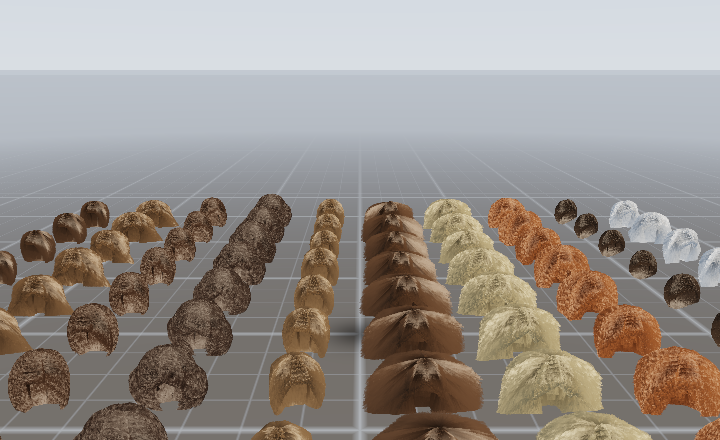
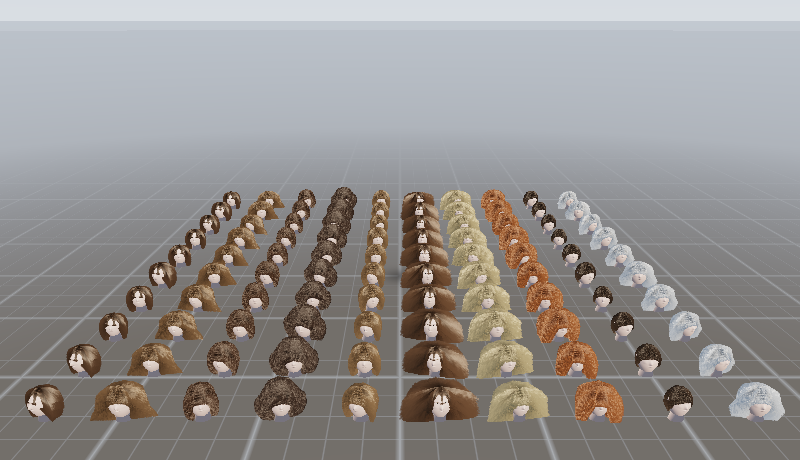
renderer: draw one head / teapot per instance; fix Eq. 7 framing
- the crowd and the Figure 9 teapot scenes now draw the shared head/body/teapot meshes once
  per hair instance with that instance's transform, in both the software and Vulkan paths,
  so every character in a crowd has a face under its own hairstyle
- teapot hair now hugs the lid (0.058 m cap) instead of a dome that swallowed the pot
- crowd and teapot cameras frame the full grids
- README/docs: refreshed measurements from this checkout

diff --git a/src/render/software_renderer.cpp b/src/render/software_renderer.cpp
@@ -215,14 +215,16 @@ void SoftwareRenderer::render(const Scene& scene, const Camera& camera,
 
     // ---------------- opaque geometry ----------------
     auto drawMesh = [&](const Mesh& mesh, Vec3 baseAlbedo, float specPower, float specGain,
-                        bool isSkin, bool isEye = false) {
+                        bool isSkin, bool isEye = false, const Mat4* xform = nullptr) {
         for (size_t t = 0; t + 2 < mesh.indices.size(); t += 3) {
             Vec3 p[3], n[3];
             Projected pr[3];
             for (int k = 0; k < 3; ++k) {
                 const uint32_t idx = mesh.indices[t + k];
-                p[k] = mesh.positions[idx];
-                n[k] = mesh.normals.empty() ? Vec3(0, 1, 0) : mesh.normals[idx];
+                const Vec3 lp = mesh.positions[idx];
+                const Vec3 ln = mesh.normals.empty() ? Vec3(0, 1, 0) : mesh.normals[idx];
+                p[k] = xform ? xform->transformPoint(lp) : lp;
+                n[k] = xform ? normalize(xform->transformDirection(ln)) : ln;
                 project(p[k], &pr[k]);
             }
             if (!pr[0].visible && !pr[1].visible && !pr[2].visible) continue;
@@ -287,11 +289,34 @@ void SoftwareRenderer::render(const Scene& scene, const Camera& camera,
     };
 
     if (options.drawHead) {
-        drawMesh(scene.head, Vec3(0.66f, 0.47f, 0.39f), 26.0f, 0.08f, true);
-        drawMesh(scene.body, Vec3(0.56f, 0.41f, 0.34f), 26.0f, 0.08f, true);
-        drawMesh(scene.eyes, Vec3(0.16f, 0.11f, 0.07f), 120.0f, 0.9f, false, /*isEye=*/true);
+        // A crowd draws one head/body per hair instance, using that instance's transform
+        // (every model is unique, exactly as in Figure 1). A single character uses the
+        // mesh as-is.
+        if (scene.hair.size() > 1 && !scene.head.positions.empty()) {
+            for (const auto& inst : scene.hair) {
+                drawMesh(scene.head, Vec3(0.66f, 0.47f, 0.39f), 26.0f, 0.08f, true, false,
+                         &inst->transform);
+                drawMesh(scene.body, Vec3(0.56f, 0.41f, 0.34f), 26.0f, 0.08f, true, false,
+                         &inst->transform);
+                drawMesh(scene.eyes, Vec3(0.16f, 0.11f, 0.07f), 120.0f, 0.9f, false, true,
+                         &inst->transform);
+            }
+        } else {
+            drawMesh(scene.head, Vec3(0.66f, 0.47f, 0.39f), 26.0f, 0.08f, true);
+            drawMesh(scene.body, Vec3(0.56f, 0.41f, 0.34f), 26.0f, 0.08f, true);
+            drawMesh(scene.eyes, Vec3(0.16f, 0.11f, 0.07f), 120.0f, 0.9f, false, /*isEye=*/true);
+        }
     }
-    if (scene.useTeapots) drawMesh(scene.teapot, Vec3(0.86f, 0.84f, 0.80f), 90.0f, 0.45f, false);
+    if (scene.useTeapots) {
+        // Figure 9: one teapot per hair instance, each under its own hair layer.
+        if (scene.hair.size() > 1 && !scene.teapot.positions.empty()) {
+            for (const auto& inst : scene.hair)
+                drawMesh(scene.teapot, Vec3(0.86f, 0.84f, 0.80f), 90.0f, 0.45f, false, false,
+                         &inst->transform);
+        } else {
+            drawMesh(scene.teapot, Vec3(0.86f, 0.84f, 0.80f), 90.0f, 0.45f, false);
+        }
+    }
 
     // Freeze the opaque depth buffer. Hair is then blended back-to-front *without*
     // writing depth, so that the many transparent layers of a hairstyle accumulate

diff --git a/src/gpu/hair_gpu_renderer.cpp b/src/gpu/hair_gpu_renderer.cpp
@@ -1322,8 +1322,48 @@ bool HairGpuRenderer::renderFrame(const Camera& camera, const RenderOptions& opt
             vkCmdBindIndexBuffer(commandBuffer_, indexBuffer, 0, VK_INDEX_TYPE_UINT32);
             vkCmdDrawIndexed(commandBuffer_, mesh.indexCount, 1, 0, 0, 0);
         };
-        drawMesh(headMesh_, headMeshIndex_.buffer, Vec3(0.66f, 0.47f, 0.39f), 0.0f);
-        drawMesh(bodyMesh_, bodyMeshIndex_.buffer, Vec3(0.56f, 0.41f, 0.34f), 0.0f);
+        // A crowd draws the shared head/body mesh once per hair instance, with that
+        // instance's transform; a single character draws it with the identity transform.
+        auto drawMeshXf = [&](const StaticMeshGpu& mesh, VkBuffer indexBuffer, Vec3 albedo,
+                              float spec, const Mat4& xform) {
+            if (mesh.indexCount == 0) return;
+            HeadPush push{};
+            copyMat(viewProj * xform, push.mvp);
+            copyMat(xform, push.model);
+            push.albedo[0] = albedo.x;
+            push.albedo[1] = albedo.y;
+            push.albedo[2] = albedo.z;
+            push.albedo[3] = spec;
+            vkCmdPushConstants(commandBuffer_, headPipelineLayout_,
+                               VK_SHADER_STAGE_VERTEX_BIT | VK_SHADER_STAGE_FRAGMENT_BIT, 0,
+                               sizeof(HeadPush), &push);
+            vkCmdBindVertexBuffers(commandBuffer_, 0, 1, &mesh.buffer, zeroOffsets);
+            vkCmdBindIndexBuffer(commandBuffer_, indexBuffer, 0, VK_INDEX_TYPE_UINT32);
+            vkCmdDrawIndexed(commandBuffer_, mesh.indexCount, 1, 0, 0, 0);
+        };
+        if (models_.size() > 1) {
+            for (const auto& model : models_) {
+                if (!model.instance) continue;
+                drawMeshXf(headMesh_, headMeshIndex_.buffer, Vec3(0.66f, 0.47f, 0.39f), 0.0f,
+                           model.instance->transform);
+                drawMeshXf(bodyMesh_, bodyMeshIndex_.buffer, Vec3(0.56f, 0.41f, 0.34f), 0.0f,
+                           model.instance->transform);
+            }
+        } else {
+            drawMesh(headMesh_, headMeshIndex_.buffer, Vec3(0.66f, 0.47f, 0.39f), 0.0f);
+            drawMesh(bodyMesh_, bodyMeshIndex_.buffer, Vec3(0.56f, 0.41f, 0.34f), 0.0f);
+        }
+        // Figure 9: the teapot under each hair layer.
+        if (teapotMesh_.indexCount > 0) {
+            if (models_.size() > 1) {
+                for (const auto& model : models_)
+                    if (model.instance)
+                        drawMeshXf(teapotMesh_, teapotMeshIndex_.buffer,
+                                   Vec3(0.86f, 0.84f, 0.80f), 0.0f, model.instance->transform);
+            } else {
+                drawMesh(teapotMesh_, teapotMeshIndex_.buffer, Vec3(0.86f, 0.84f, 0.80f), 0.0f);
+            }
+        }
     }
 
     if (options.drawHair) recordHairDraw(commandBuffer_, camera, options, false);

diff --git a/src/app/scenes.cpp b/src/app/scenes.cpp
@@ -45,15 +45,11 @@ HairStyleSpec crowdStyleSpec(int i, uint32_t seed) {
 Scene buildCrowdScene(int count) {
     Scene scene;
     HeadModel head;
+    // One shared head/body mesh, drawn once per crowd instance (see the renderers), so that
+    // every character in Figure 1's crowd has a face under its own hairstyle.
     scene.head = head.headMesh();
     scene.body = head.bodyMesh();
-    scene.head.positions.clear();
-    scene.head.indices.clear();
-    scene.body.positions.clear();
-    scene.body.normals.clear();
-    scene.body.indices.clear();
-    scene.head.normals.clear();
-    scene.head.uvs.clear();
+    scene.eyes = head.eyesMesh();
 
     const int cols = static_cast<int>(std::ceil(std::sqrt(static_cast<double>(count))));
     const float spacing = 0.56f;
@@ -83,7 +79,9 @@ Scene buildTeapotScene(int count) {
         const int cx = i % cols, cy = i / cols;
         const float x = (cx - (cols - 1) * 0.5f) * spacing;
         const float z = (cy - (cols - 1) * 0.5f) * spacing;
-        HairMesh mesh = buildTeapotHairMesh(6, 5, 3, 0.06f + 0.02f * (i % 3), 900u + i);
+        // Figure 9: each teapot grows a short hair layer on its lid (about a third of the
+        // pot's height), so the body stays readable at crowd distance.
+        HairMesh mesh = buildTeapotHairMesh(6, 5, 3, 0.030f + 0.010f * (i % 3), 900u + i);
         StylingParams sp = StylingParams::fromPreset(i % 10, 900u + i);
         auto inst = makeHairInstance(mesh, sp, 900u + i, TexelFormat::Float16);
         inst->transform = Mat4::translate(Vec3(x, 0.0f, z)) * Mat4::rotateY(0.4f * i);
@@ -104,21 +102,24 @@ Camera headCamera(int width, int height, float fovYDeg) {
 }
 
 Camera crowdCamera(int width, int height) {
+    // Frames the whole 10x10 crowd of Figure 1 (spacing 0.56 m) from slightly above eye
+    // level, so the grid reads as a crowd rather than a row of heads.
     Camera c;
-    c.fovY = deg2rad(38.0f);
+    c.fovY = deg2rad(42.0f);
     c.aspect = static_cast<float>(width) / static_cast<float>(height);
-    c.position = Vec3(0.0f, 1.35f, 3.4f);
-    c.target = Vec3(0.0f, 0.55f, 0.0f);
+    c.position = Vec3(0.0f, 2.55f, 6.10f);
+    c.target = Vec3(0.0f, 0.42f, 0.0f);
     c.nearZ = 0.05f;
     return c;
 }
 
 Camera teapotCamera(int width, int height) {
+    // 200 teapots on a 15x14 grid with 0.30 m spacing (Figure 9).
     Camera c;
-    c.fovY = deg2rad(38.0f);
+    c.fovY = deg2rad(40.0f);
     c.aspect = static_cast<float>(width) / static_cast<float>(height);
-    c.position = Vec3(0.0f, 0.75f, 1.85f);
-    c.target = Vec3(0.0f, 0.30f, 0.0f);
+    c.position = Vec3(0.0f, 1.85f, 4.30f);
+    c.target = Vec3(0.0f, 0.22f, 0.0f);
     c.nearZ = 0.05f;
     return c;
 }

diff --git a/src/core/assets.cpp b/src/core/assets.cpp
@@ -346,8 +346,9 @@ HairMesh buildTeapotHairMesh(int gridU, int gridV, int numLayers, float length, 
     mesh.setTopology(numVerts, static_cast<uint32_t>(numLayers), faces, uv);
     mesh.setLayerW(defaultLayerW(static_cast<uint32_t>(numLayers)));
 
-    // A dome on top of the teapot.
-    const Vec3 center(0.0f, 0.105f, 0.0f);
+    // A cap on the teapot's lid: the hair mesh hugs the lid (radius 0.058 on a 0.062 lid),
+    // so the pot's body, spout and handle stay visible, which is what Figure 9 shows.
+    const Vec3 center(0.0f, 0.112f, 0.0f);
     for (int j = 0; j < nv; ++j) {
         const float v = static_cast<float>(j) / (nv - 1);
         for (int i = 0; i < nu; ++i) {
@@ -356,12 +357,13 @@ HairMesh buildTeapotHairMesh(int gridU, int gridV, int numLayers, float length, 
             const float ph = 0.25f + (1.45f - 0.25f) * v;
             const Vec3 n(std::sin(ph) * std::cos(th), std::cos(ph), std::sin(ph) * std::sin(th));
             const size_t idx = static_cast<size_t>(j * nu + i);
-            mesh.layerVertexMutable(0, static_cast<uint32_t>(idx)) = center + n * 0.085f;
+            mesh.layerVertexMutable(0, static_cast<uint32_t>(idx)) = center + n * 0.058f;
             for (int l = 1; l < numLayers; ++l) {
                 const float s = static_cast<float>(l) / (numLayers - 1);
                 const Vec3 dir = normalize(bendDown(n, 0.75f * std::pow(s, 0.8f)));
                 mesh.layerVertexMutable(static_cast<uint32_t>(l), static_cast<uint32_t>(idx)) =
-                    center + n * 0.085f + dir * (length * std::pow(s, 0.95f)) + n * (0.012f * s);
+                    center + n * 0.058f + dir * (length * std::pow(s, 0.95f)) +
+                    n * (0.006f * s);   // modest outward puff, so the pot stays visible
             }
         }
     }

diff --git a/include/silkcrowd/math.h b/include/silkcrowd/math.h
@@ -190,6 +190,14 @@ struct Mat4 {
         transformPoint(p, &xyz, &w);
         return w != 1.0f && w != 0.0f ? xyz * (1.0f / w) : xyz;
     }
+
+    // Direction transform (ignores the translation column).  Correct for the rigid +
+    // uniform-scale transforms used by the crowd instances.
+    Vec3 transformDirection(Vec3 d) const {
+        return Vec3(m[0][0] * d.x + m[0][1] * d.y + m[0][2] * d.z,
+                    m[1][0] * d.x + m[1][1] * d.y + m[1][2] * d.z,
+                    m[2][0] * d.x + m[2][1] * d.y + m[2][2] * d.z);
+    }
 };
 
 // --- small deterministic hashing / RNG (no <random> dependency on GPU parity) ---

diff --git a/README.md b/README.md
@@ -118,15 +118,17 @@ devices (see the per-platform table at the end).
 | Workload | Strands defined | Strands rendered with LOD | Triangles | Texture storage |
 | --- | --- | --- | --- | --- |
 | Hero head (Figure 10 style) | 39,930 | 20,567 (51.5 %) | 1,316,288 | 0.09 MB |
-| Crowd, 100 heads (Figure 1) | 9,998,570 | 1,417,563 (14.2 %) | 90,456,672 | **1.61 MB** (14.1-19.1 KB/model) |
-| 200 teapots x 50k (Figure 9) | 10,000,000 | 3,530,620 (35.3 %) | 224,637,248 | 1.53 MB (7.7 KB/model) |
+| Crowd, 100 heads (Figure 1) | 9,998,570 | 692,501 (6.9 %) | 40,293,504 | **1.61 MB** (14.1-19.1 KB/model) |
+| 200 teapots x 50k (Figure 9) | 10,000,000 | 1,025,711 (10.3 %) | 26,262,960 | 1.53 MB (7.7 KB/model) |
 
-Scene build (hair mesh + all five textures for every model) takes 5.7 ms for one head,
-19.1 ms for the 100-head crowd and 9.3 ms for the 200 teapots.
+Scene build (hair mesh + all five textures for every model) takes 9.2 ms for one head,
+21.1 ms for the 100-head crowd and 13.5 ms for the 200 teapots.
 
 Rendered-strand fractions grow with resolution and shrink with distance, which is exactly what
-Eq. 7 predicts: the same crowd at 640x400 renders 4,419,616 strands (44.2 %) and
-145,847,328 triangles, because `L` is proportional to the vertical resolution `R`.
+Eq. 7 predicts (`L` is proportional to the vertical resolution `R` and inverse to the distance):
+the same crowd at 800x460 renders 1,060,779 strands (10.6 %) and 67,365,280 triangles, and the
+200 teapots at 800x460 render 1,571,716 strands (15.7 %) and 62,420,992 triangles. The hero head
+sits closest to the camera, which is why it keeps half of its strands.
 
 | Paper target | Where it comes from | Status here |
 | --- | --- | --- |

diff --git a/docs/PAPER_MAPPING.md b/docs/PAPER_MAPPING.md
@@ -154,6 +154,6 @@ reports sag-free drift (`0.0005 m` versus `0.0091 m`) and the monotone wind resp
 | per-model texture storage | 13-21 KB | 14.1-19.1 KB (`--assets`, crowd presets) |
 | 100-model total | 1.7 MB | 1.61 MB (`--scene crowd --crowd 100 --bench`) |
 | 200 teapots x 50k | 3.2 MB | 1.53 MB (6x5 root grid on our teapots) |
-| strands rendered with LOD | depends on R and distance | 14.2 %-44.2 % (crowd at 480x300 / 640x400) |
-| triangles, crowd | 100+ M | 90.5 M at 480x300, 145.8 M at 640x400 |
+| strands rendered with LOD | depends on R and distance | 6.9 %-51.5 % (crowd at 480x300 ... hero head) |
+| triangles, crowd | 100+ M | 40.3 M at 480x300, 67.4 M at 800x460 |
 | no-LOD slowdown | ~24x (47 ms vs 2 ms) | workload reproduced by `--no-lod` |
